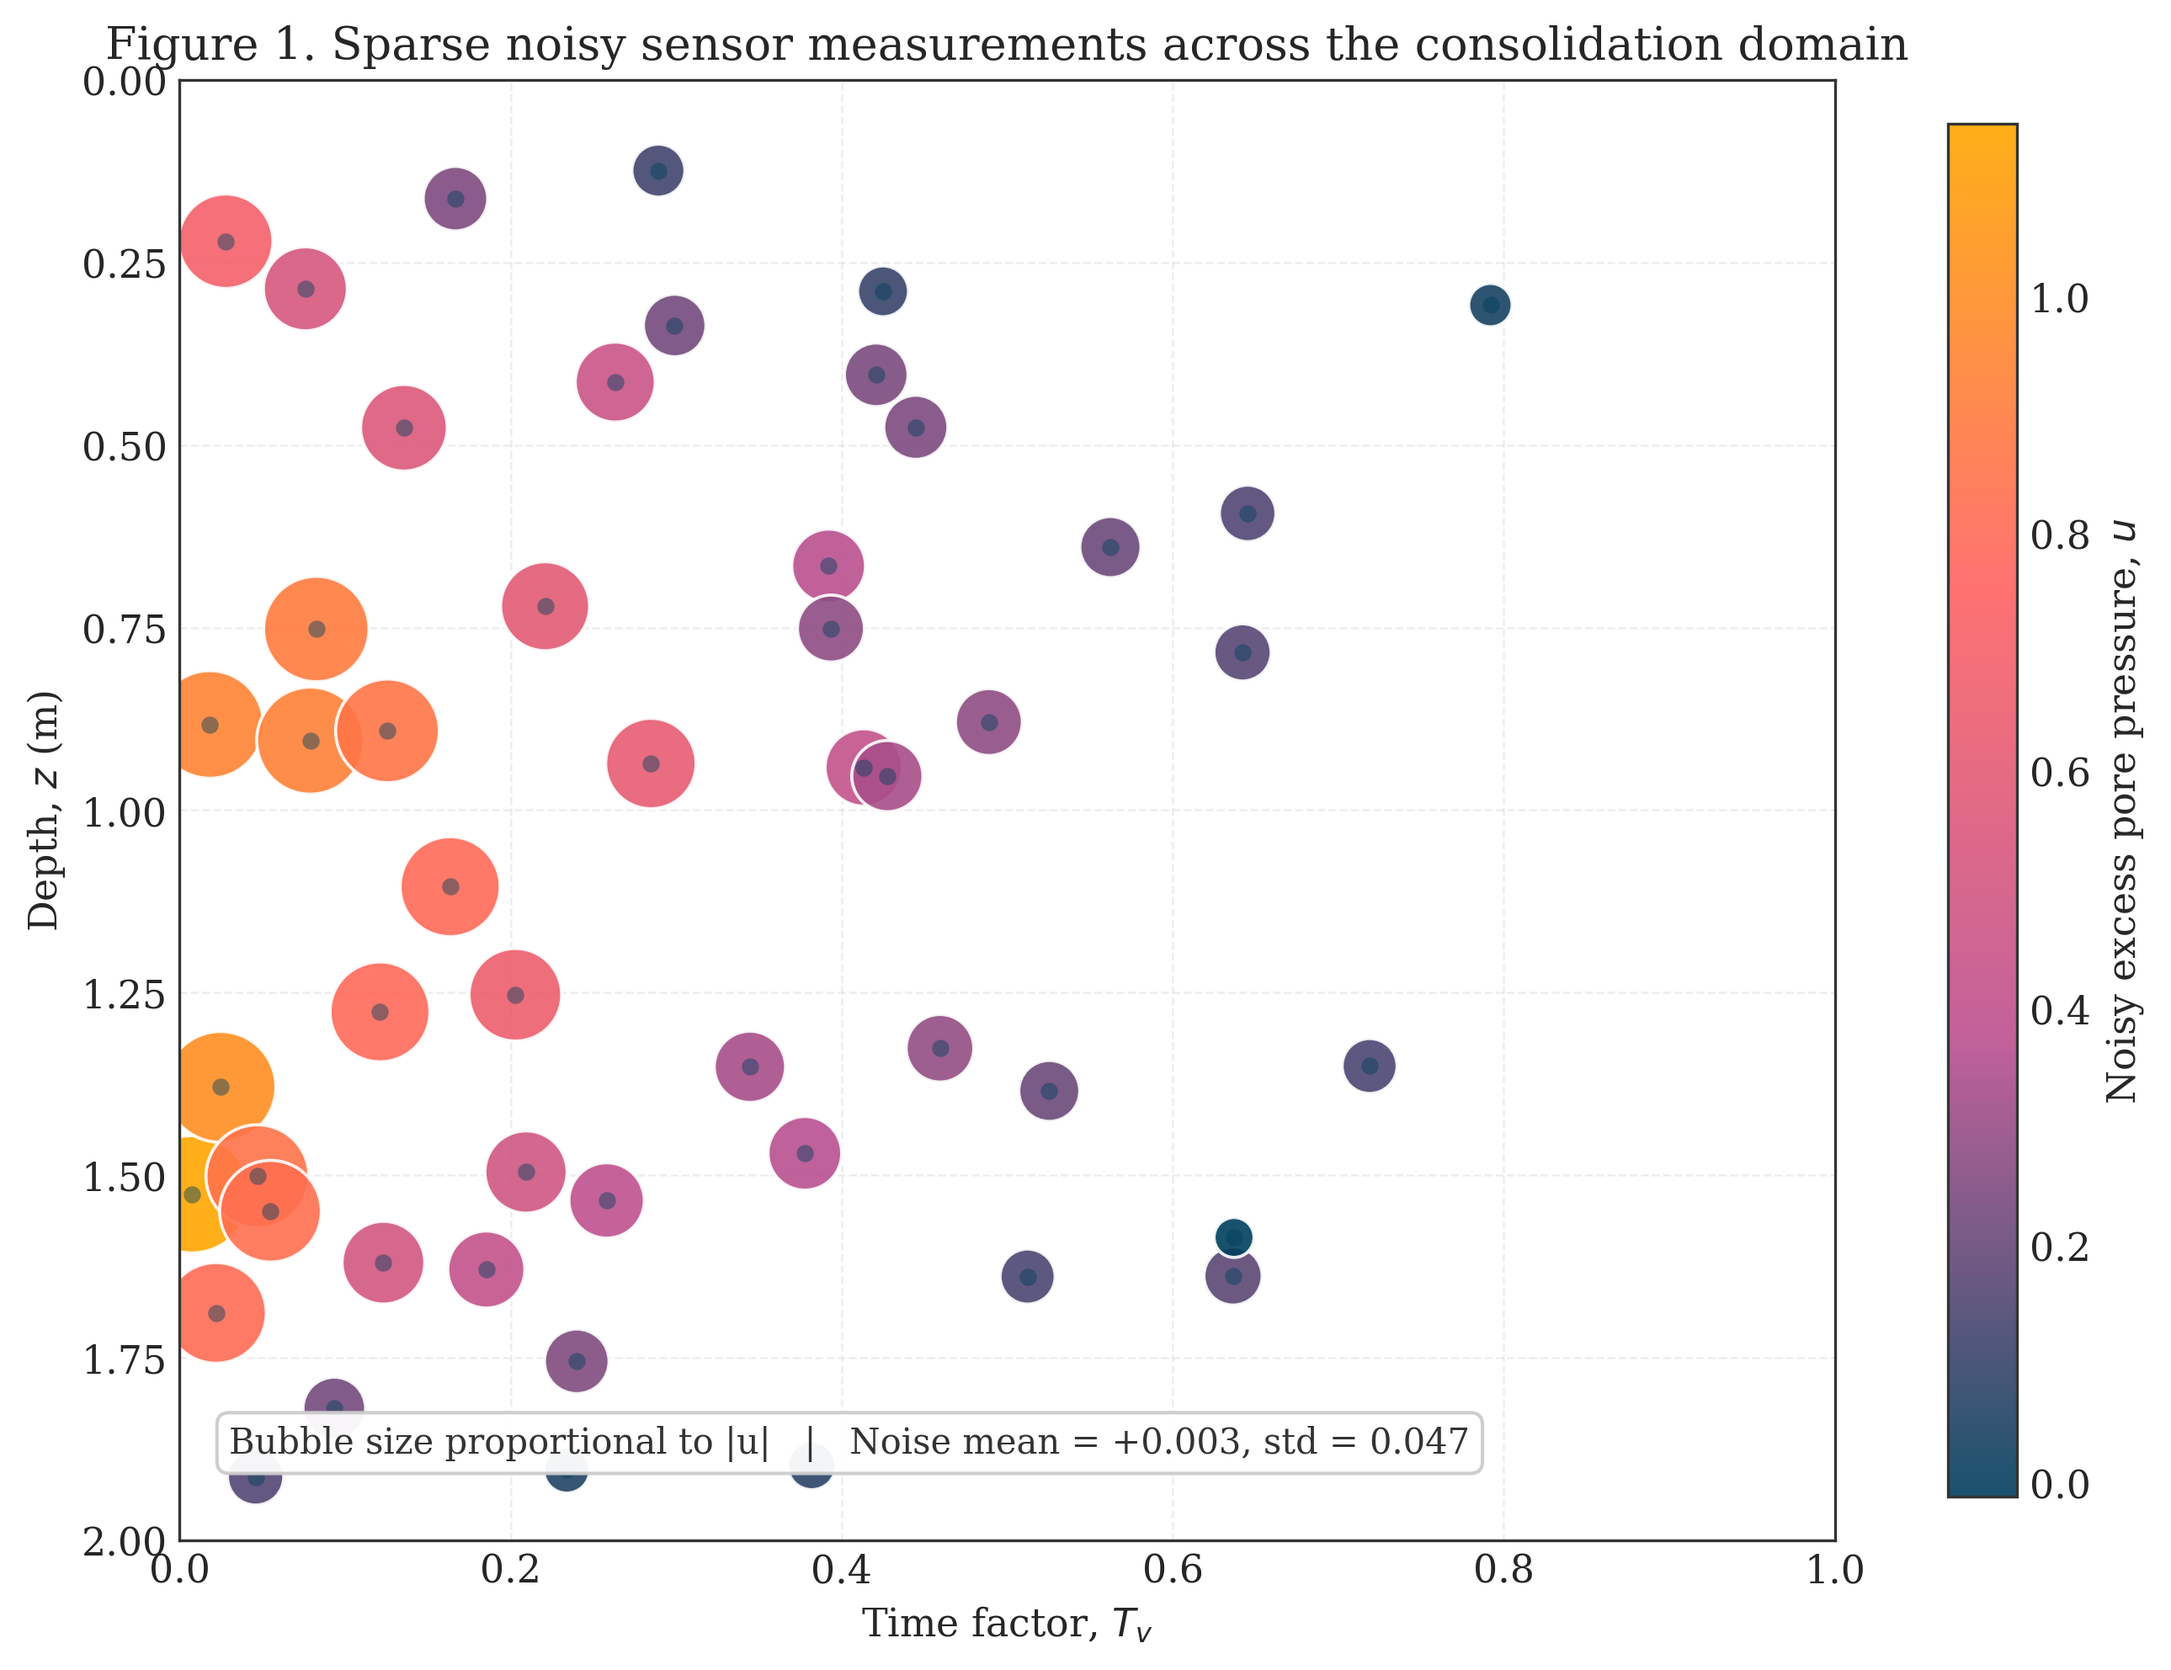
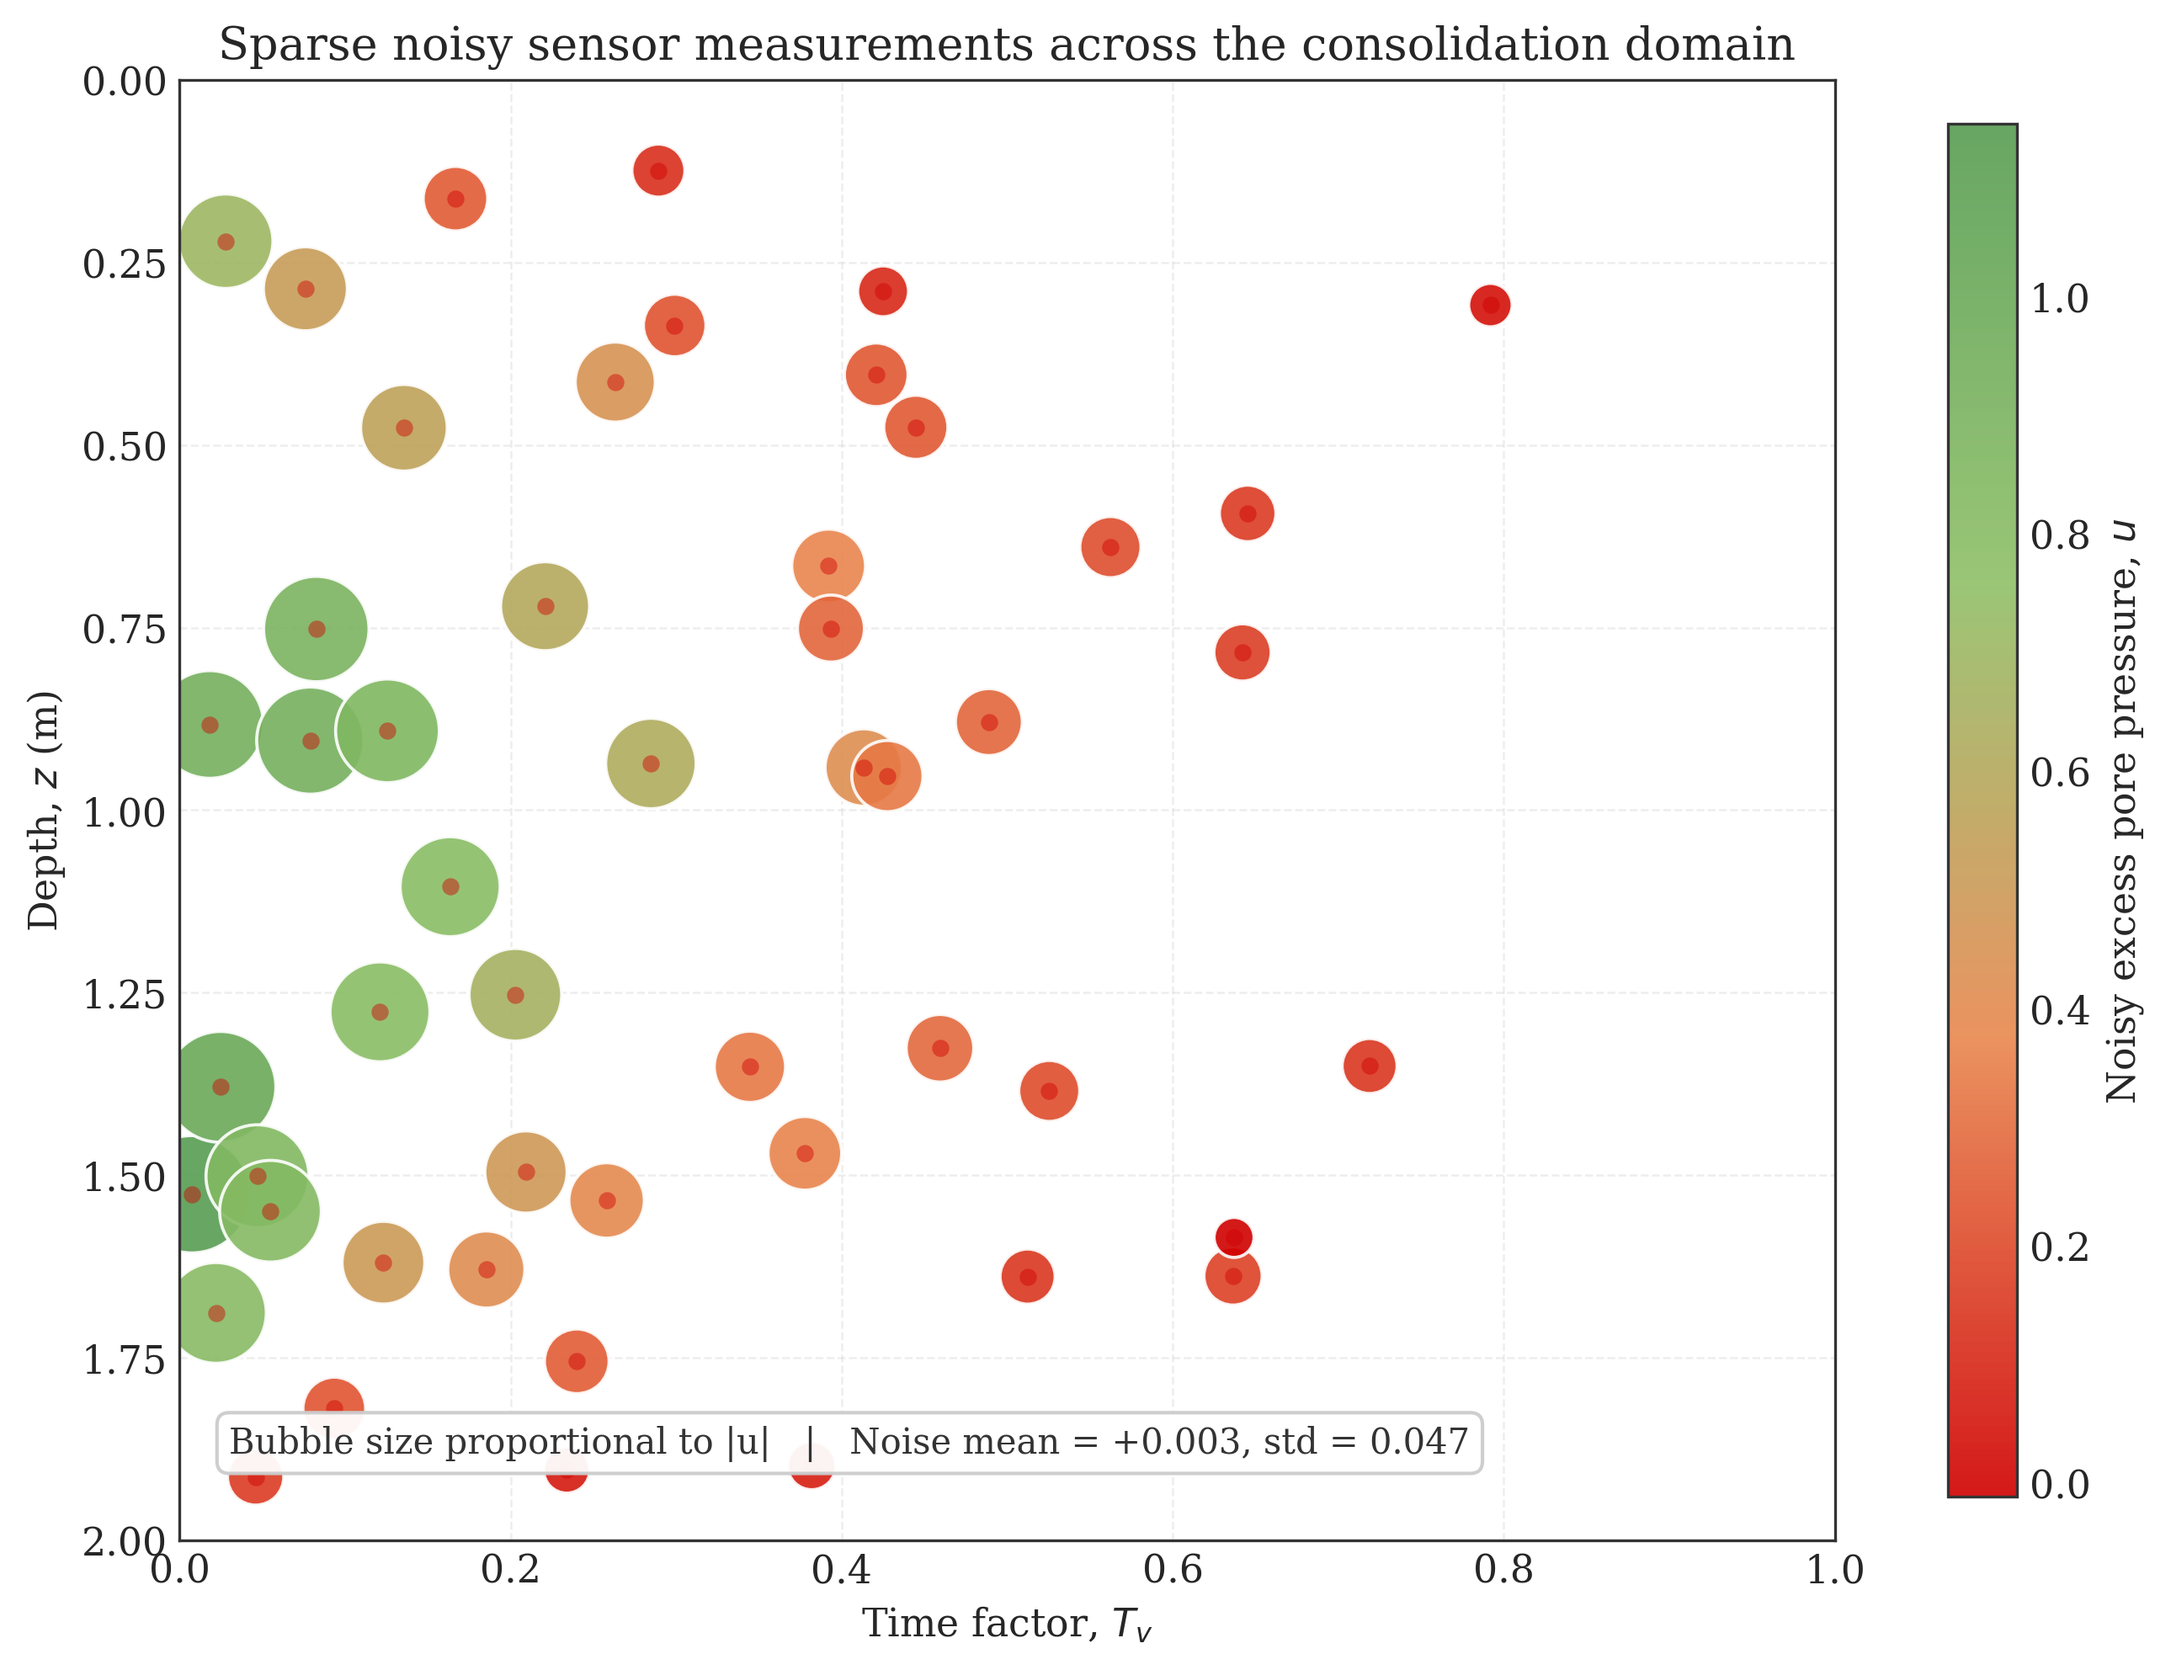
feat: update visualization palette, remove figure labels from plots, and add methodology workflow generator

diff --git a/generate_workflow.py b/generate_workflow.py
@@ -1,0 +1,99 @@
+import matplotlib.pyplot as plt
+import matplotlib.patches as patches
+from pathlib import Path
+
+# Set up figure
+fig, ax = plt.subplots(figsize=(11, 7.5), dpi=300)
+ax.set_xlim(0, 100)
+ax.set_ylim(0, 100)
+ax.axis("off")
+fig.patch.set_facecolor("#faf0e6")  # Light linen background from image
+
+# Colors from extracted palette
+PRIMARY = "#d00000"
+SECONDARY = "#e9874e"
+ACCENT_1 = "#8fc067"
+ACCENT_2 = "#579d52"
+TEXT_DL = "#ffffff"
+
+def draw_box(x, y, w, h, title, subtitle, facecolor, edgecolor="#333333"):
+    # Box
+    box = patches.FancyBboxPatch(
+        (x, y), w, h, boxstyle="round,pad=1.5", 
+        linewidth=2.0, edgecolor=edgecolor, facecolor=facecolor,
+        alpha=0.9
+    )
+    ax.add_patch(box)
+    
+    # Title text
+    ax.text(x + w/2, y + h - 5.5, title, ha="center", va="center", 
+            fontsize=13, fontweight="bold", color=TEXT_DL, family="serif")
+    
+    # Subtitle text
+    ax.text(x + w/2, y + h/2 - 2, subtitle, ha="center", va="center", 
+            fontsize=10, color=TEXT_DL, linespacing=1.5, family="serif")
+
+def draw_arrow(x1, y1, x2, y2, label=None, label_pt=None):
+    ax.annotate("", xy=(x2, y2), xytext=(x1, y1),
+                arrowprops=dict(arrowstyle="-|>,head_length=0.8,head_width=0.4", 
+                                color="#444444", lw=2.5, shrinkA=0, shrinkB=0))
+    if label and label_pt:
+        ax.text(label_pt[0], label_pt[1], label, ha="center", va="center", 
+                fontsize=10, fontweight="bold", color="#333333",
+                bbox=dict(boxstyle="round,pad=0.3", fc="#faf0e6", ec="none", alpha=0.9))
+
+# Draw the blocks
+# 1. Inputs (Left)
+# 1a: Training Data
+draw_box(5, 65, 23, 18, "Training Data", 
+         "50 Sparse & Noisy\nSensor Measurements\n$(z, t, u_{noisy})$", PRIMARY)
+
+# 1b: Collocation Points
+draw_box(5, 35, 23, 18, "Physics Constraints", 
+         "2,000 Interior\nCollocation Points\nTerzaghi PDE Domain", PRIMARY)
+
+# 2. Network (Center Top)
+draw_box(38, 50, 24, 30, "PINN Architecture", 
+         "Multilayer Perceptron\n5 Layers $\\times$ 50 Neurons\n\n+ Dropout ($p=0.1$)\n\nLearnable Parameter: $c_v$", SECONDARY)
+
+# 3. Loss & Optimizer (Center Bottom)
+draw_box(38, 10, 24, 25, "Optimization", 
+         "Loss = MSE$_{data}$ + MSE$_{PDE}$\n\nAdam Optimizer\n5,000 Epochs\nAutomatic Differentiation", ACCENT_1)
+
+# 4. Uncertainty Quantification (Right Top)
+draw_box(71, 58, 24, 22, "Uncertainty\nQuantification", 
+         "Monte Carlo Dropout\n1,000 Stochastic Passes\nat Inference Time", ACCENT_2)
+
+# 5. Predictions (Right Bottom)
+draw_box(71, 23, 24, 22, "Final Outputs", 
+         "Robust Discovery of $c_v$\n\nPredictive Mean $\\hat{u}$\n95% Confidence Bounds", ACCENT_2)
+
+# Connect Inputs to Network
+draw_arrow(28, 74, 34, 74)         # Data to Network
+draw_arrow(34, 74, 34, 65)         # Data path down
+draw_arrow(34, 65, 38, 65, "Forward\nPass", (34, 70))
+
+draw_arrow(28, 44, 34, 44)         # Physics to Network
+draw_arrow(34, 44, 34, 65)         # Physics path up
+
+# Connect Network to Loss
+draw_arrow(50, 50, 50, 35, "Compute\nResiduals", (50, 42.5))
+
+# Feedback loop: Loss back to Network
+draw_arrow(43, 35, 43, 50, "Update Weights\n& $c_v$", (43, 42.5))
+
+# Connect Network to UQ
+draw_arrow(62, 65, 71, 65, "", None)
+
+# Connect UQ to Outputs
+draw_arrow(83, 58, 83, 45, "Aggregate", (83, 51.5))
+
+# Add an overarching title
+ax.text(50, 92, "Methodology Workflow: Uncertainty-Aware PINN for Inverse Consolidation", 
+        ha="center", va="center", fontsize=16, fontweight="bold", family="serif", color="#222222")
+
+# Save figure
+output_path = Path(__file__).resolve().parent / "figures" / "methodology_workflow.png"
+output_path.parent.mkdir(parents=True, exist_ok=True)
+plt.savefig(output_path, bbox_inches="tight")
+print(f"Methodological workflow figure successfully generated at {output_path}")

diff --git a/inverse_consolidation_pinn_uq.py b/inverse_consolidation_pinn_uq.py
@@ -47,10 +47,10 @@ SLICE_TIME = 0.2
 REPORT_WIDTH = 98
 
 # Requested publication palette
-PRIMARY = "#003f5c"
-SECONDARY = "#bc5090"
-ACCENT_1 = "#ff6361"
-ACCENT_2 = "#ffa600"
+PRIMARY = "#d00000"
+SECONDARY = "#e9874e"
+ACCENT_1 = "#8fc067"
+ACCENT_2 = "#579d52"
 
 FIG_DIR = Path(__file__).resolve().parent / "figures"
 FIG_DIR.mkdir(parents=True, exist_ok=True)
@@ -243,7 +243,7 @@ def save_figure_1(
         linewidths=0.0,
     )
 
-    ax.set_title("Figure 1. Sparse noisy sensor measurements across the consolidation domain")
+    ax.set_title("Sparse noisy sensor measurements across the consolidation domain")
     ax.set_xlabel("Time factor, $T_v$")
     ax.set_ylabel("Depth, $z$ (m)")
     ax.set_xlim(0.0, TV_MAX)
@@ -296,7 +296,7 @@ def save_figure_2(
     axes[1].legend()
     axes[1].grid(True, linestyle="--", alpha=0.45)
 
-    fig.suptitle("Figure 2. Training convergence and parameter identification", fontsize=14)
+    fig.suptitle("Training convergence and parameter identification", fontsize=14)
     output_path = FIG_DIR / "figure_2_convergence_and_cv.png"
     fig.savefig(output_path, bbox_inches="tight")
     plt.close(fig)
@@ -331,7 +331,7 @@ def save_figure_3(
         label="95% confidence interval",
     )
 
-    ax.set_title(f"Figure 3. True, traditional, and PINN+UQ profiles at $T_v = {SLICE_TIME:.1f}$")
+    ax.set_title(f"True, traditional, and PINN+UQ profiles at $T_v = {SLICE_TIME:.1f}$")
     ax.set_xlabel("Excess pore pressure, $u$")
     ax.set_ylabel("Depth, $z$ (m)")
     ax.set_xlim(-0.15, 1.15)
@@ -363,7 +363,7 @@ def save_figure_4(
     ax.contour(t_grid, z_grid, std_grid, levels=levels[::2], colors="white", linewidths=0.4, alpha=0.55)
     ax.scatter(sensor_t, sensor_z, s=14, color="white", edgecolors=PRIMARY, linewidths=0.4, alpha=0.95)
 
-    ax.set_title("Figure 4. Spatiotemporal uncertainty map from MC dropout")
+    ax.set_title("Spatiotemporal uncertainty map from MC dropout")
     ax.set_xlabel("Time factor, $T_v$")
     ax.set_ylabel("Depth, $z$ (m)")
     ax.set_xlim(0.0, TV_MAX)
